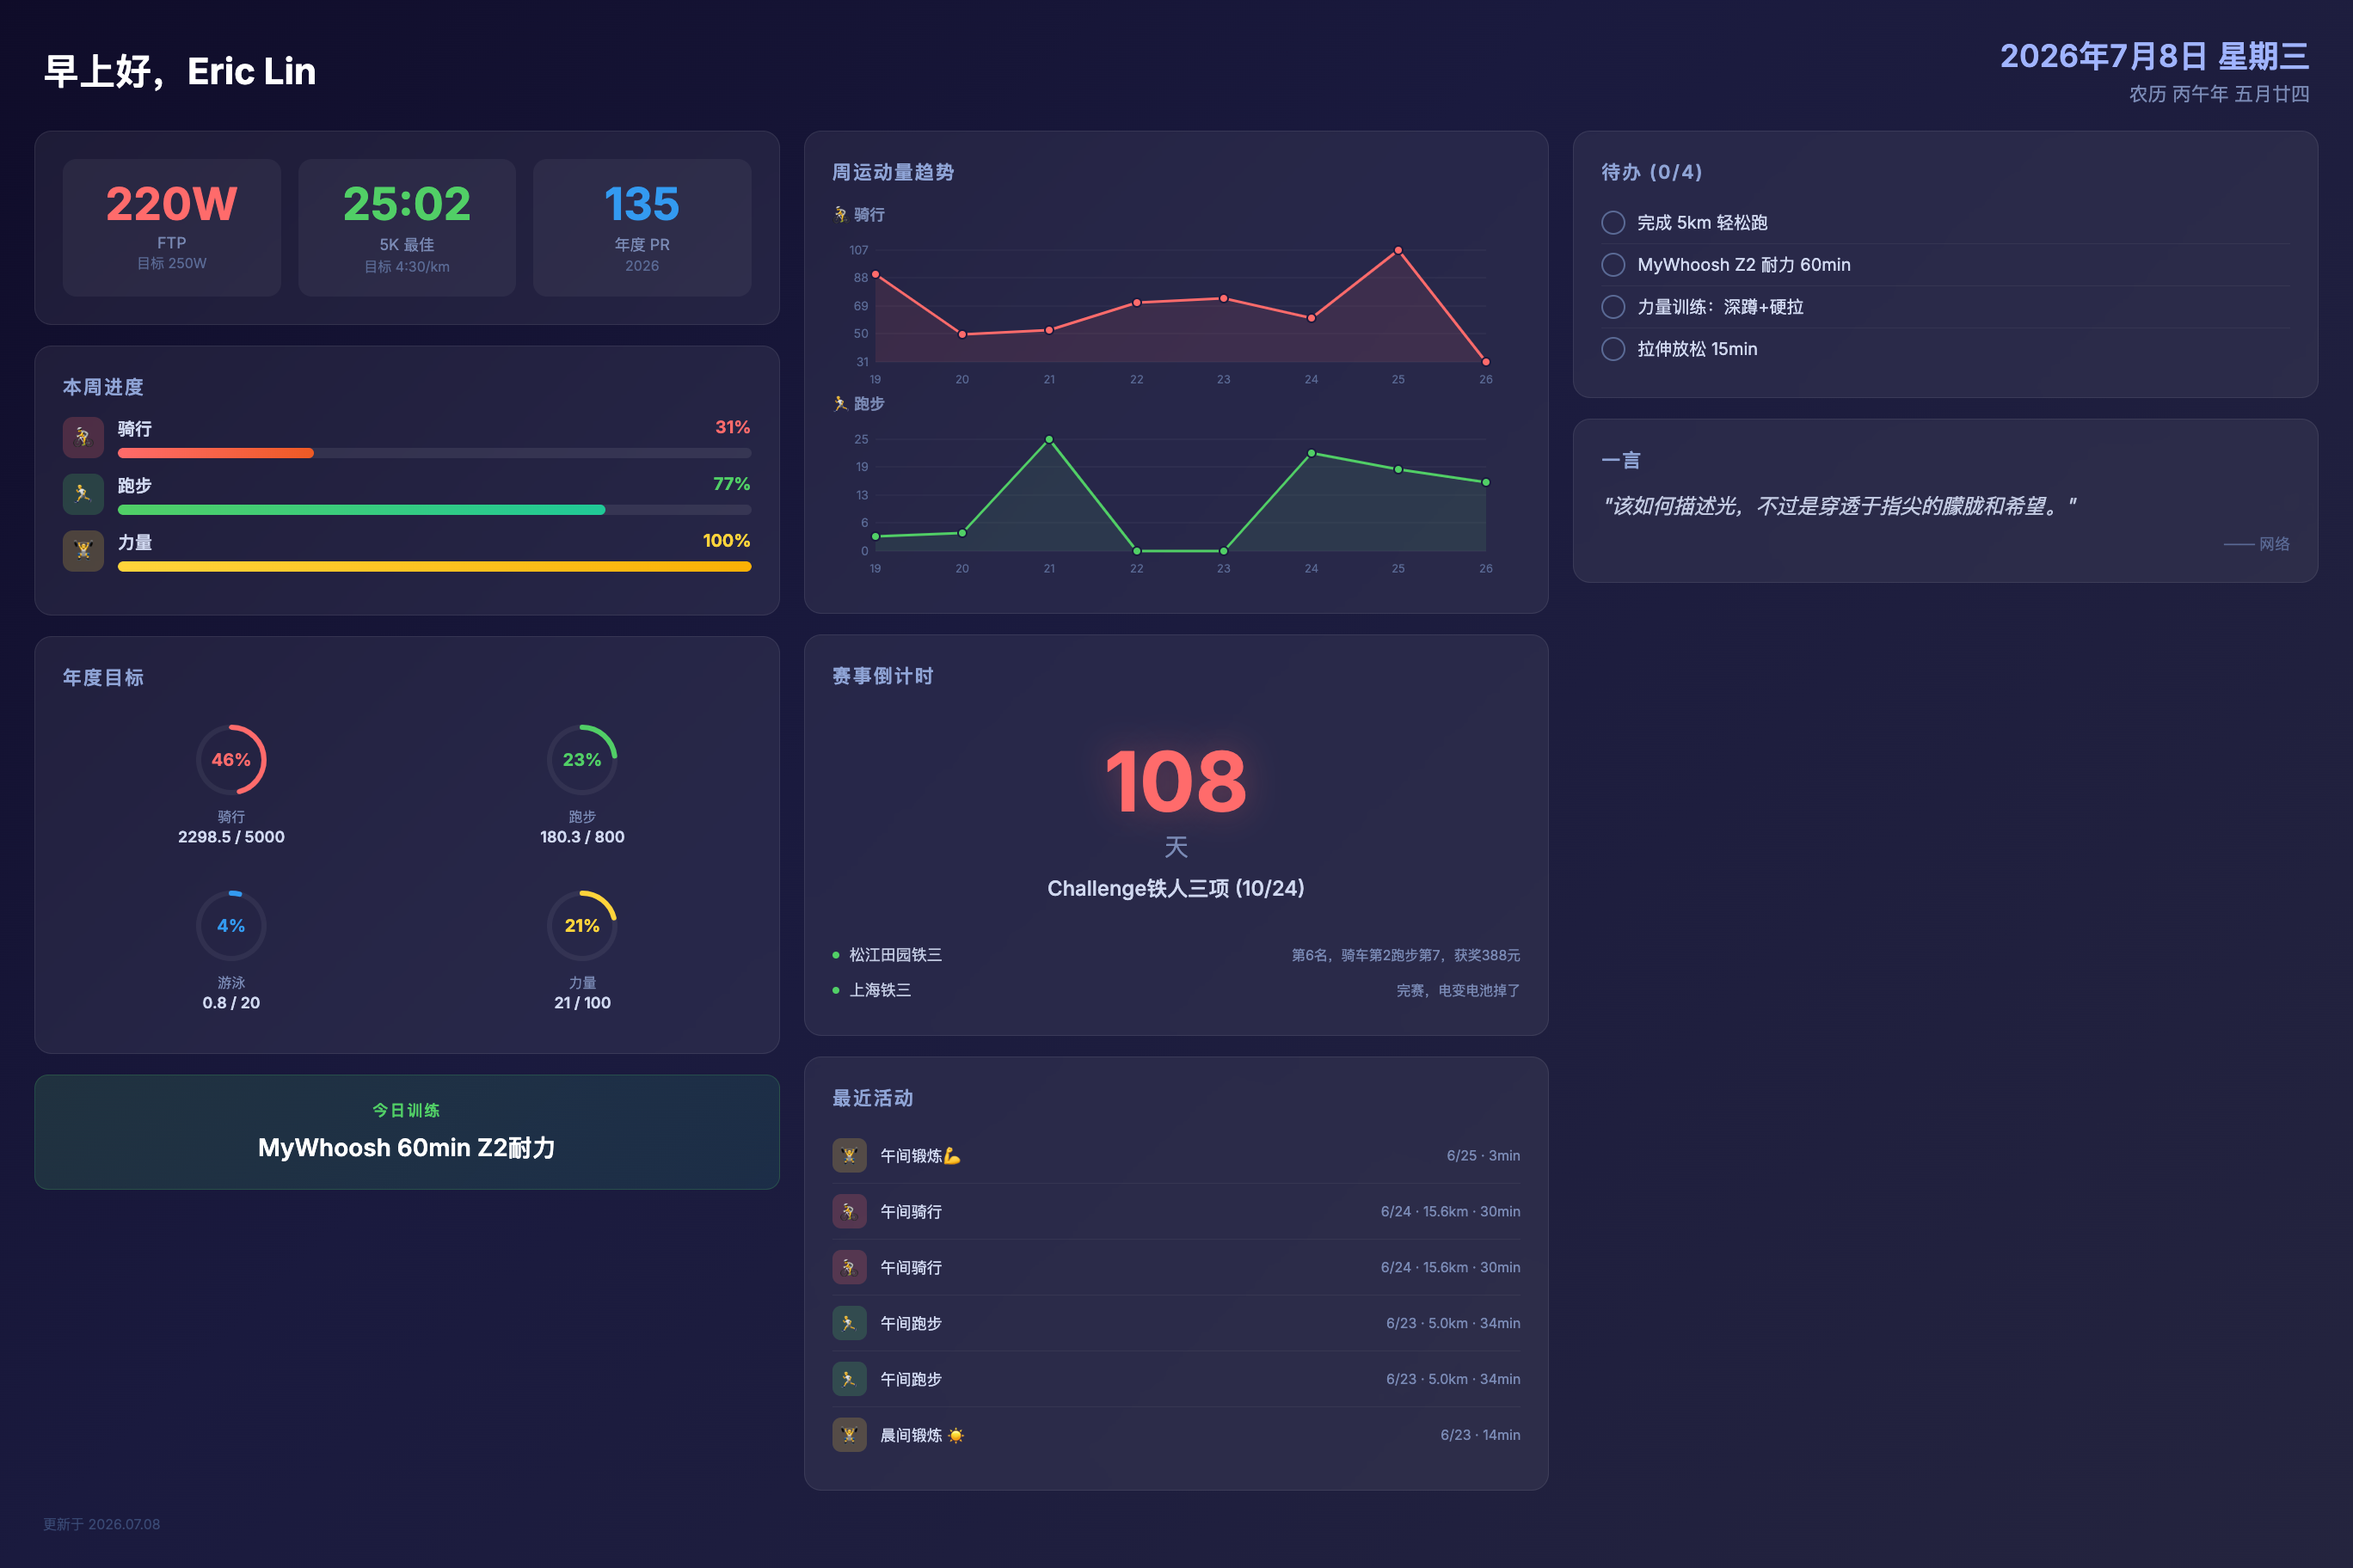
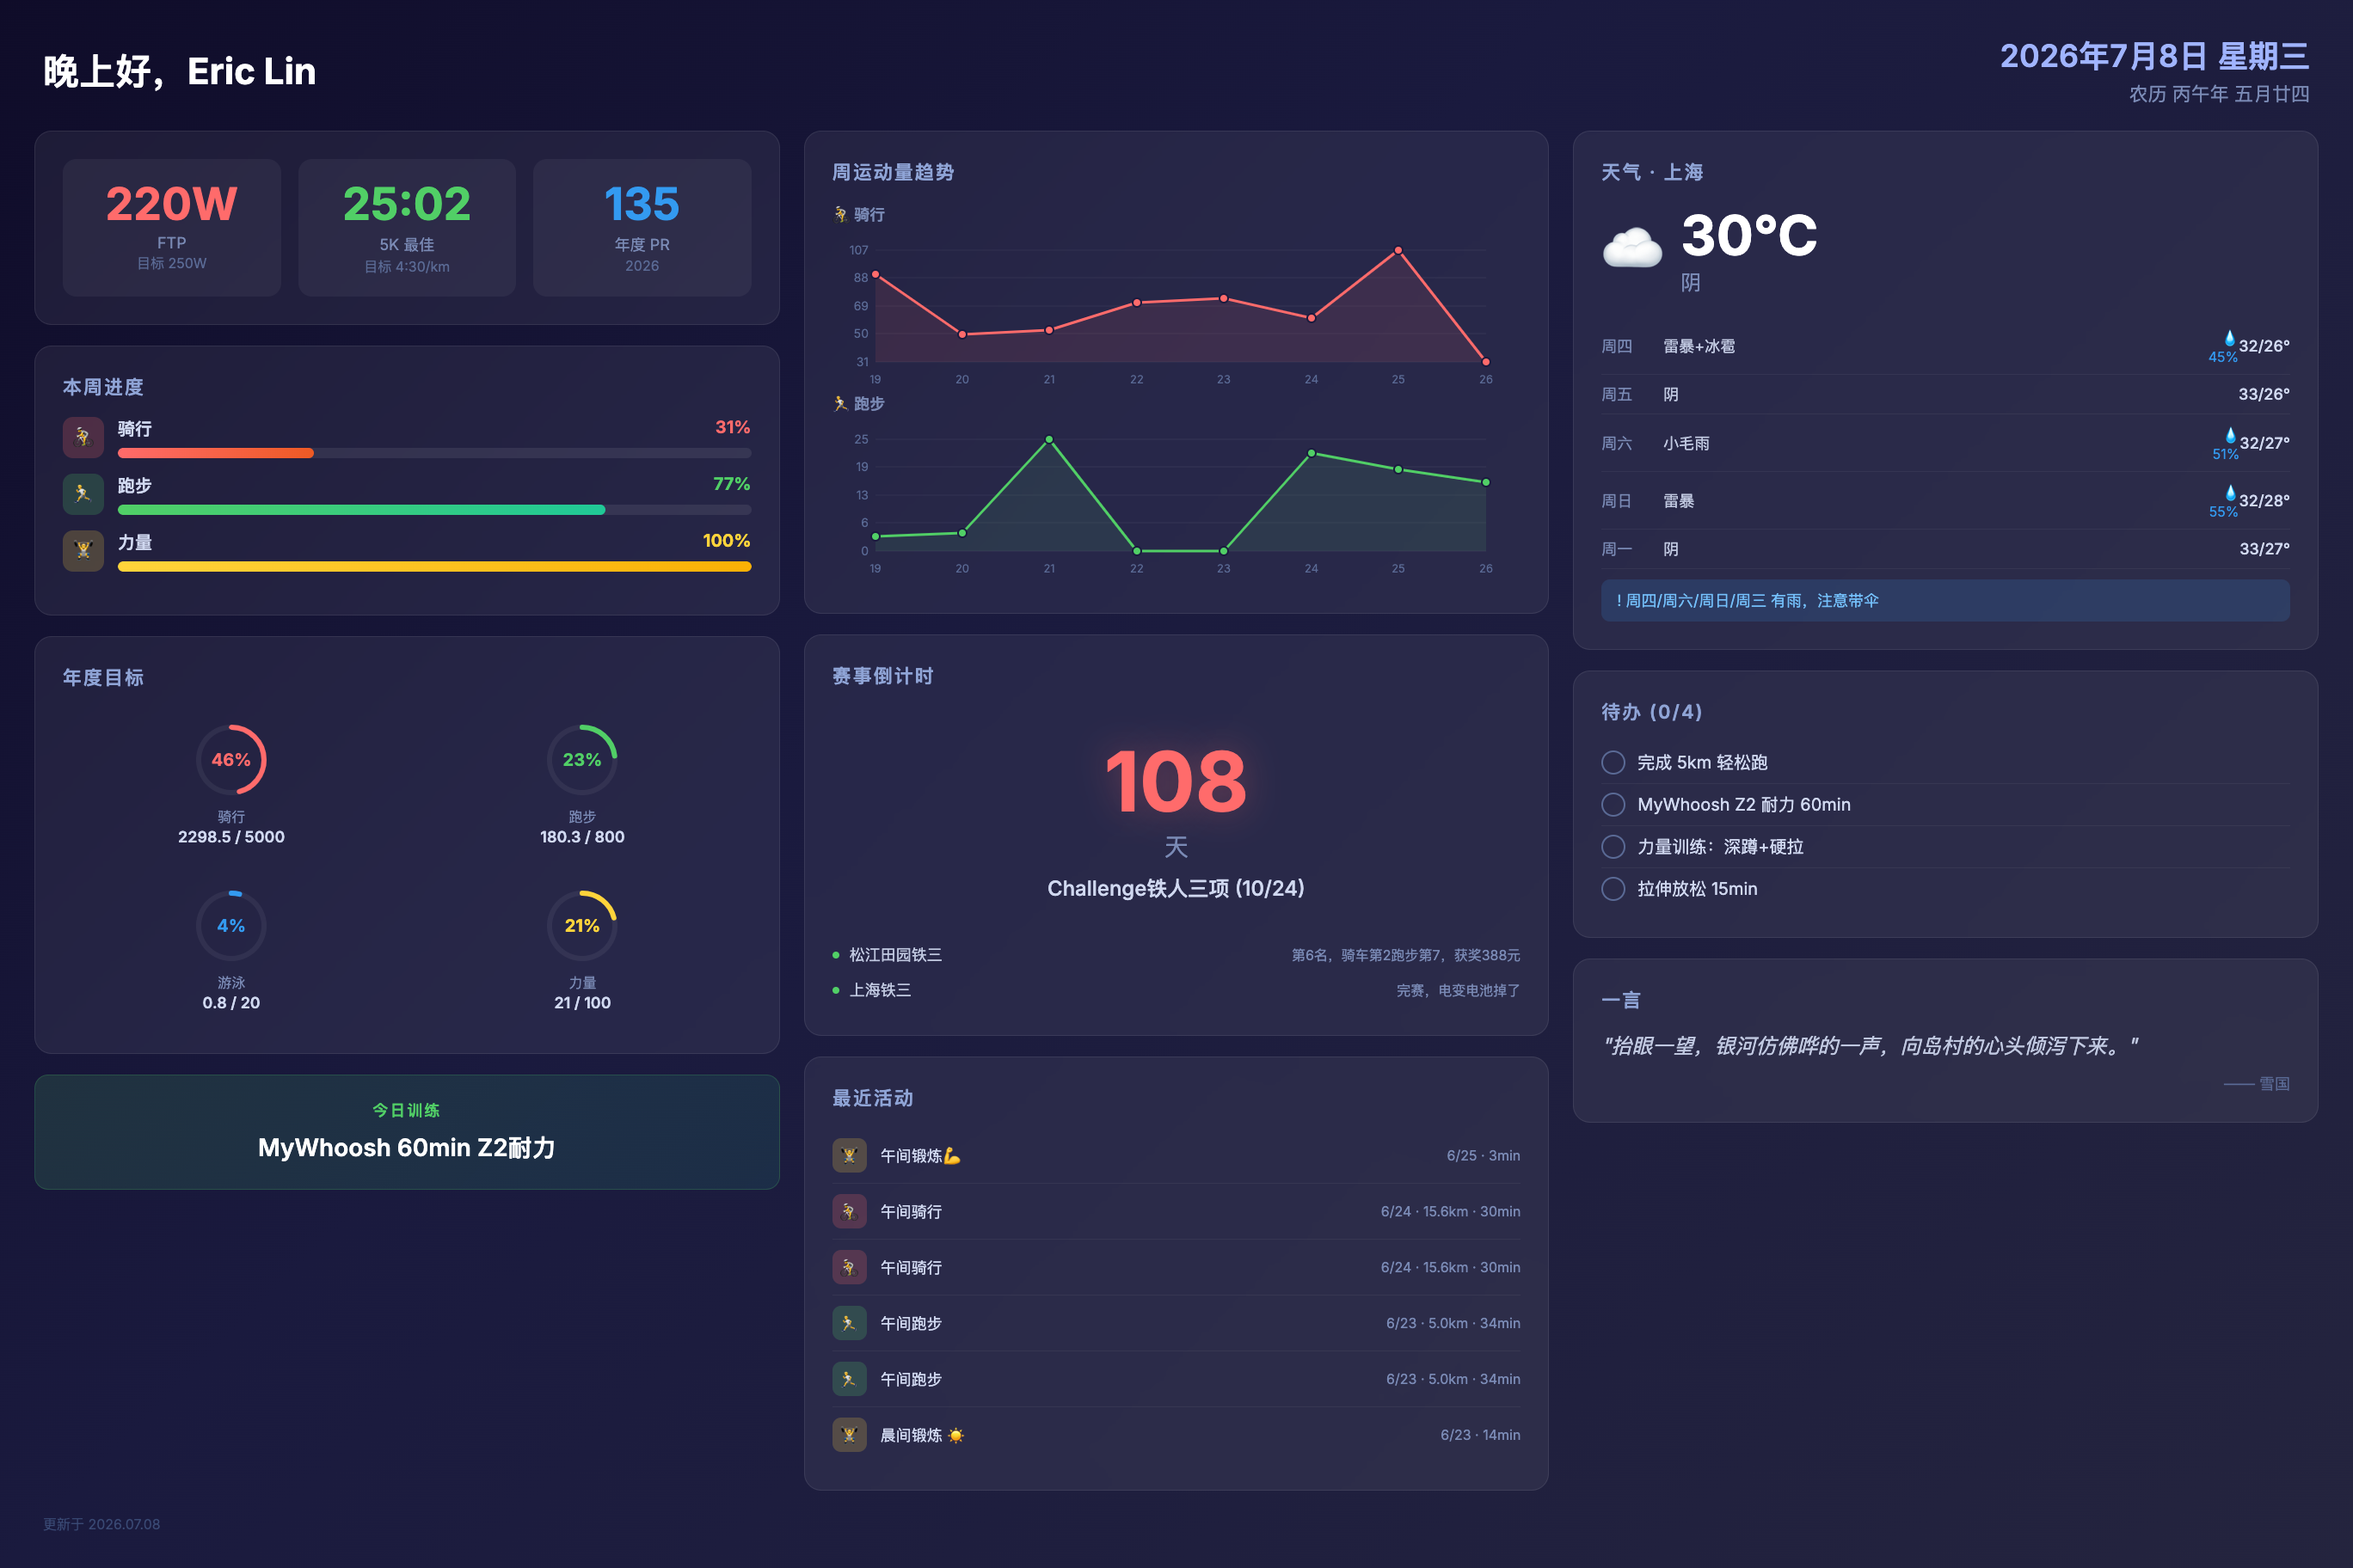
deploy: 2026-07-08-20:10

diff --git a/screensaver.html b/screensaver.html
@@ -490,7 +490,7 @@ html, body {
 <!-- ===== TOP BAR ===== -->
 <div class="top-bar">
   <div>
-    <div class="greeting">早上好，Eric Lin</div>
+    <div class="greeting">晚上好，Eric Lin</div>
     
   </div>
   <div class="date-info">
@@ -805,6 +805,58 @@ html, body {
 
   <!-- Weather -->
   
+  <div class="card">
+    <div class="card-title">天气 · 上海</div>
+    <div class="weather-current">
+      <div class="weather-icon-big">☁</div>
+      <div>
+        <div class="weather-temp-big">30°C</div>
+        <div class="weather-desc">阴</div>
+      </div>
+    </div>
+    
+    
+    <div class="forecast-row">
+      <div class="forecast-day">周四</div>
+      <div class="forecast-desc">雷暴+冰雹</div>
+      <div class="forecast-precip">💧45%</div>
+      <div class="forecast-range">32/26°</div>
+    </div>
+    
+    <div class="forecast-row">
+      <div class="forecast-day">周五</div>
+      <div class="forecast-desc">阴</div>
+      <div class="forecast-precip"></div>
+      <div class="forecast-range">33/26°</div>
+    </div>
+    
+    <div class="forecast-row">
+      <div class="forecast-day">周六</div>
+      <div class="forecast-desc">小毛雨</div>
+      <div class="forecast-precip">💧51%</div>
+      <div class="forecast-range">32/27°</div>
+    </div>
+    
+    <div class="forecast-row">
+      <div class="forecast-day">周日</div>
+      <div class="forecast-desc">雷暴</div>
+      <div class="forecast-precip">💧55%</div>
+      <div class="forecast-range">32/28°</div>
+    </div>
+    
+    <div class="forecast-row">
+      <div class="forecast-day">周一</div>
+      <div class="forecast-desc">阴</div>
+      <div class="forecast-precip"></div>
+      <div class="forecast-range">33/27°</div>
+    </div>
+    
+    
+    
+    <div class="rain-alert">! 周四/周六/周日/周三 有雨，注意带伞</div>
+    
+  </div>
+  
 
   <!-- Todos -->
   
@@ -850,9 +902,9 @@ html, body {
   
   <div class="card">
     <div class="card-title">一言</div>
-    <div class="quote-text">"该如何描述光，不过是穿透于指尖的朦胧和希望。"</div>
+    <div class="quote-text">"抬眼一望，银河仿佛哗的一声，向岛村的心头倾泻下来。"</div>
     
-    <div class="quote-from">—— 网络</div>
+    <div class="quote-from">—— 雪国</div>
     
   </div>
   

diff --git a/life.html b/life.html
@@ -133,6 +133,74 @@ html, body {
 
 <!-- ===== 天气 ===== -->
 
+<div class="box">
+  <p class="section-title">☀ 天气 · 上海</p>
+  <table class="weather-table">
+    <tr>
+      <td class="weather-icon">~</td>
+      <td class="weather-temp">30°C</td>
+      <td class="weather-desc">阴</td>
+    </tr>
+  </table>
+  
+  <table class="forecast-table">
+    
+    <tr>
+      <td class="forecast-day">周四</td>
+      <td class="forecast-icon">!</td>
+      <td>雷暴+冰雹</td>
+      <td class="forecast-range">32/26°C</td>
+    </tr>
+    
+    <tr>
+      <td class="forecast-day">周五</td>
+      <td class="forecast-icon">~</td>
+      <td>阴</td>
+      <td class="forecast-range">33/26°C</td>
+    </tr>
+    
+    <tr>
+      <td class="forecast-day">周六</td>
+      <td class="forecast-icon">.</td>
+      <td>小毛雨</td>
+      <td class="forecast-range">32/27°C</td>
+    </tr>
+    
+    <tr>
+      <td class="forecast-day">周日</td>
+      <td class="forecast-icon">!</td>
+      <td>雷暴</td>
+      <td class="forecast-range">32/28°C</td>
+    </tr>
+    
+    <tr>
+      <td class="forecast-day">周一</td>
+      <td class="forecast-icon">~</td>
+      <td>阴</td>
+      <td class="forecast-range">33/27°C</td>
+    </tr>
+    
+    <tr>
+      <td class="forecast-day">周二</td>
+      <td class="forecast-icon">*</td>
+      <td>大部晴</td>
+      <td class="forecast-range">36/27°C</td>
+    </tr>
+    
+    <tr>
+      <td class="forecast-day">周三</td>
+      <td class="forecast-icon">!</td>
+      <td>雷暴</td>
+      <td class="forecast-range">38/28°C</td>
+    </tr>
+    
+  </table>
+  
+  
+  <div class="rain-alert">! 周四/周六/周日/周三 有雨，注意带伞</div>
+  
+</div>
+
 
 <!-- ===== 今日 ===== -->
 <div class="box">
@@ -193,9 +261,9 @@ html, body {
 
 <div class="box">
   <p class="section-title">💬 一言</p>
-  <p class="quote-text">该如何描述光，不过是穿透于指尖的朦胧和希望。</p>
+  <p class="quote-text">抬眼一望，银河仿佛哗的一声，向岛村的心头倾泻下来。</p>
   
-  <p class="quote-from">—— 网络</p>
+  <p class="quote-from">—— 雪国</p>
   
 </div>
 
